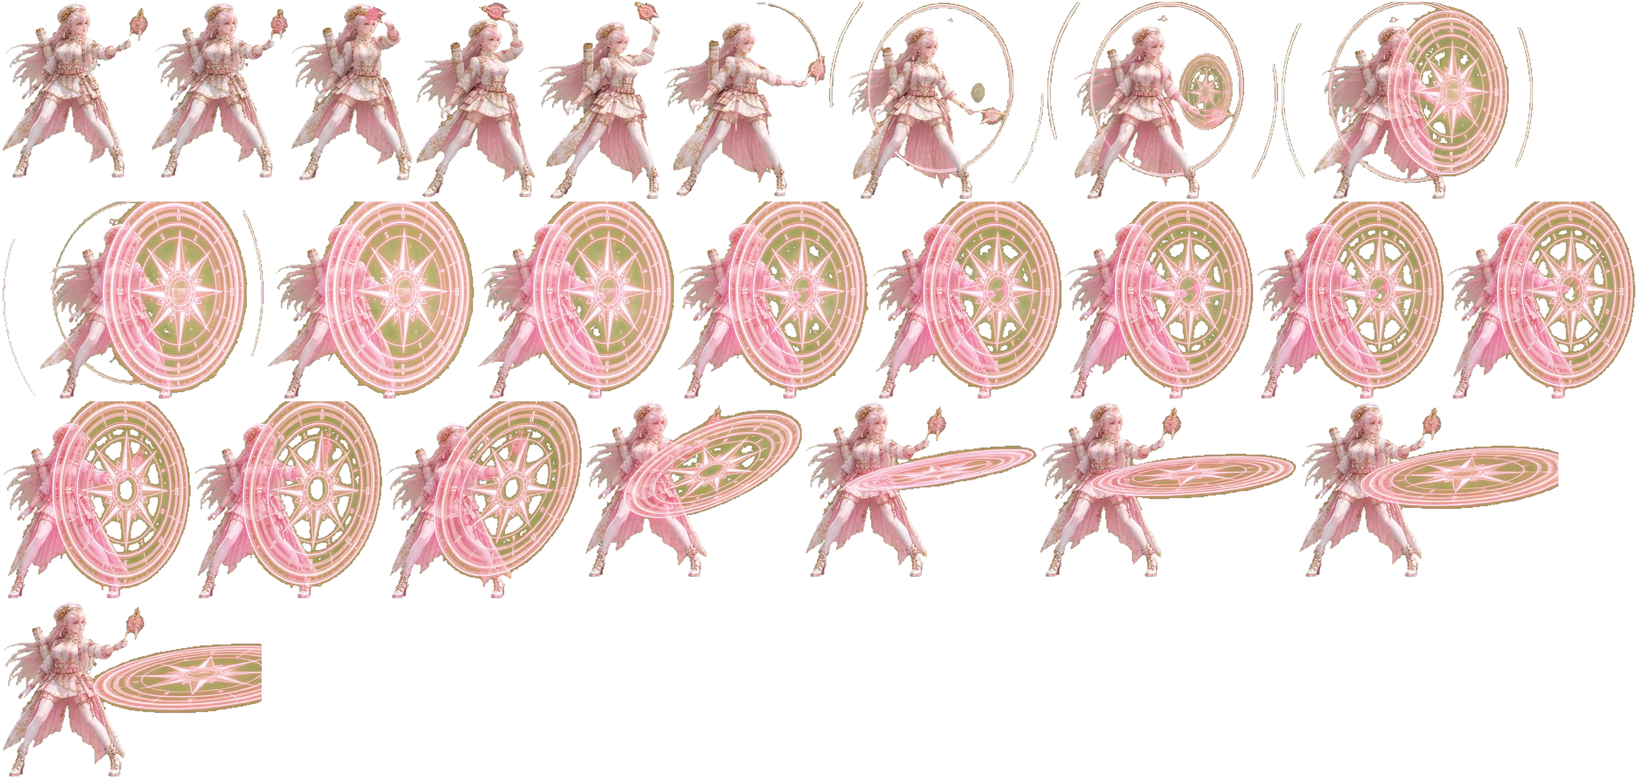
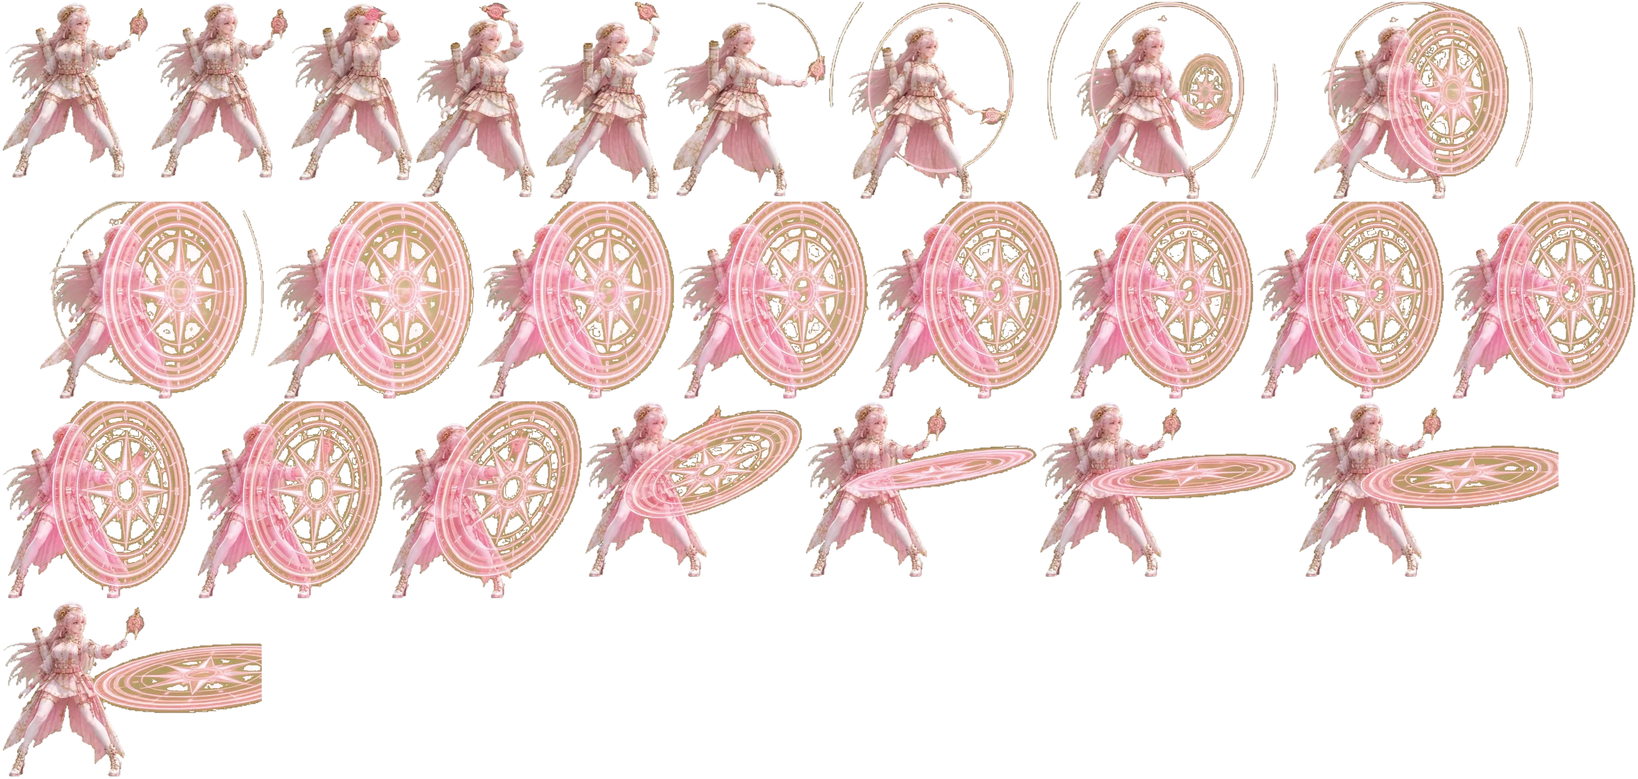
SAKURA 1.33x, cleaner ULT/breath mattes, tag leap in/out, fallen member stays down, dual HP bars
- SAKURA CHAR_SCALE 1.63 -> 1.33 (1.3x the original); hurtbox, reach and dragon paths scaled to match
- dragon breath and SAKURA ULT/disc frames: khaki/olive glow left by the green screen
  re-matted into translucent pink, detached grey islands removed
- tag: outgoing member leaps up and off-screen, incoming member leaps in from off-screen
- a KO'd member now stays lying where they fell until the round ends
- HUD: both team members' health bars shown in fixed order, active one highlighted

Claude-Session: https://claude.ai/code/session_01MJipmhPHwD7WLZ9Y2RX72y

diff --git a/game.js b/game.js
@@ -56,7 +56,7 @@ const CHARS = {
   // ARCA-07 rides the four-legged MAGITEK ARSENAL: big, heavy, long reach, magic artillery
   arca: { id: 'arca', name: 'ARCA-07', role: '魔道兵器・重砲撃', c1: '#2ee6c8', c2: '#e0405a', rgb: '46,230,200', rgb2: '235,80,100', speed: 4.3, jump: -15.5, anchor: .55, h: 625, hurtW: 156, hurtH: 550, exName: 'ルーン・ミサイル', ultName: 'アーセナル・ノヴァ' },
   // SAKURA: sky-city aircraft engineer. Draws blueprints with her compass and summons the IDEA DRAGON (AOI-style summoner)
-  sakura: { id: 'sakura', name: 'SAKURA', role: '設計図・竜召喚', c1: '#ff9ec4', c2: '#e8c25a', rgb: '255,158,200', rgb2: '232,194,90', speed: 5.0, jump: -24.5, anchor: .55, hurtW: 64, hurtH: 380, exName: 'アイディア・ドラゴン', ultName: 'ドラフト・ノヴァ' }
+  sakura: { id: 'sakura', name: 'SAKURA', role: '設計図・竜召喚', c1: '#ff9ec4', c2: '#e8c25a', rgb: '255,158,200', rgb2: '232,194,90', speed: 5.0, jump: -24.5, anchor: .55, hurtW: 52, hurtH: 310, exName: 'アイディア・ドラゴン', ultName: 'ドラフト・ノヴァ' }
 };
 const ALT = {
   suzune: { c1: '#7fd8ff', c2: '#4f7bff', rgb: '130,215,255', rgb2: '90,120,255', test: (h, s, l) => (h > 33 && h < 64 && s > .3) || ((h < 12 || h > 340) && s > .55), shift: 175 },
@@ -84,7 +84,7 @@ async function buildAssets() {
 const ANIMS = {};
 const frameCount = (id, n) => ANIMS[id] && ANIMS[id].a[n] ? ANIMS[id].a[n].length : 0;
 // visual size balance between characters (SUZUNE's source video was framed larger)
-const CHAR_SCALE = { suzune: .92, aoi: 1.07, arca: 625 / 318, sakura: 1.63 };   // AOI stands taller; SUZUNE fights from a low crouch
+const CHAR_SCALE = { suzune: .92, aoi: 1.07, arca: 625 / 318, sakura: 1.33 };   // AOI stands taller; SUZUNE fights from a low crouch
 const LOAD = { done: 0, total: 0 };
 function track(p) { LOAD.total++; return p.then(v => { LOAD.done++; const el = document.getElementById('loadPct'); if (el) el.textContent = Math.round(LOAD.done / Math.max(1, LOAD.total) * 100) + '%'; return v; }); }
 // Atlases are NOT decoded at boot any more: only the fighters in the current match are kept in memory,
@@ -166,6 +166,7 @@ function pickFrame(f) {
     case 'jump': return f.vy < -8 && f.t < 10 ? at('jump', 0) : at('jump', 1);
     case 'dash': if (f.id === 'arca') return f.dashDir === f.face ? loop('walk', 20) : at('guard', 0);
       return f.dashDir === f.face ? at('ex', 99) : at('guard', 0);
+    case 'tagin': if (f.id === 'arca') return loop('walk', 20); return f.t < f.tg.L * .45 ? at('jump', 0) : at('jump', 1);
     case 'dashin': return f.id !== 'suzune' ? loop('walk', (AN.fps.walk || 12) * 1.2) : at('ex', 99);
     case 'hit': return prog('hit', t / (t + Math.max(1, f.stun)));
     case 'air': return prog('air', t / 16);
@@ -809,9 +810,9 @@ function updateArcaMove(f, o, m, t, k, act, at, dt, first) {
   } else if (k === 'ult') updateAoiUlt(f, o, at, dt, first);   // same beam logic, fired from the ARSENAL's railgun
 }
 // SAKURA: drafting-compass strikes, a thrown blueprint disc, and the IDEA DRAGON she draws into being
-function sakuraTip(f) { return { x: f.x + f.face * 190, y: f.y - 330 }; }
+function sakuraTip(f) { return { x: f.x + f.face * 155, y: f.y - 270 }; }
 // ULT: her blueprint beam and the dragon's breath converge here, then fire as one braided beam
-function sakuraFocus(f) { return { x: f.x + f.face * 540, y: f.y - 300 }; }
+function sakuraFocus(f) { return { x: f.x + f.face * 440, y: f.y - 245 }; }
 function updateSakuraMove(f, o, m, t, k, act, at, dt, first) {
   const rgb = f.col.rgb, gold = f.col.rgb2, tip = sakuraTip(f);
   if (k === 'a') {
@@ -819,12 +820,12 @@ function updateSakuraMove(f, o, m, t, k, act, at, dt, first) {
     if (t < m.st) f.vx *= .75;
     if (first(0)) {
       f.vx = f.face * [4, 6, 9][c];
-      if (c === 1) fxArc(f.x + f.face * 130, f.y - 300, 150, -1.6, 1.1, rgb, f.face, 18, 34);
+      if (c === 1) fxArc(f.x + f.face * 106, f.y - 245, 122, -1.6, 1.1, rgb, f.face, 18, 34);
       else { fxRing(tip.x, tip.y, gold, 4, 46, 10, 4); fxCore(tip.x, tip.y, rgb, 40, 8); }
       if (c === 2) { spawnBolt(f, tip.x, tip.y, f.face * 24, 0, 5, 'bolt'); sfx.laser(); fxRing(tip.x + f.face * 30, tip.y, rgb, 6, 70, 12, 5, 2.4); }
       else sfx.swing();
     }
-    if (act) tryHit(f, o, box(f, 30, c === 1 ? 320 : 280, -400, -150), { dmg: [4, 4.5, 5][c], kb: [3, 4, 9][c], stun: [15, 16, 20][c], power: [.7, .8, 1.2][c], launch: c === 2 ? -8 : 0 });
+    if (act) tryHit(f, o, box(f, 25, c === 1 ? 260 : 230, -325, -122), { dmg: [4, 4.5, 5][c], kb: [3, 4, 9][c], stun: [15, 16, 20][c], power: [.7, .8, 1.2][c], launch: c === 2 ? -8 : 0 });
   } else if (k === 'b') {
     if (t < m.st) { f.vx *= .7; f.charge = t / m.st; if ((t | 0) % 2 === 0) fxSpark(tip.x, tip.y, gold, 2, .4); }
     if (first(0)) {   // blueprint compass-rose disc flung forward
@@ -834,7 +835,7 @@ function updateSakuraMove(f, o, m, t, k, act, at, dt, first) {
       sfx.heavySwing();
     }
   } else if (k === 'ex') {
-    if (t < m.st) { f.vx = 0; f.charge = t / m.st; if ((t | 0) % 2 === 0) fxSpark(f.x, f.y - 560, gold, 3, .5); if ((t | 0) % 6 === 0) fxRing(f.x - f.face * 60, f.y - 640, rgb, 20, 200, 16, 3, .3); }
+    if (t < m.st) { f.vx = 0; f.charge = t / m.st; if ((t | 0) % 2 === 0) fxSpark(f.x, f.y - 457, gold, 3, .5); if ((t | 0) % 6 === 0) fxRing(f.x - f.face * 49, f.y - 522, rgb, 20, 163, 16, 3, .3); }
     if (first(0)) { summonDragon(f, o, 'swoop'); f.charge = 0; }
   } else if (k === 'ult') {
     if (first(0)) summonDragon(f, o, 'ult');
@@ -847,9 +848,9 @@ const dragonScale = f => { const AN = ANIMS[f.id]; return AN ? AN.k * AN.dragonK
 function summonDragon(f, o, mode) {
   const back = -f.face;
   f.dragon = mode === 'swoop'
-    ? { mode, t: 0, face: f.face, x: f.x + back * 700, y: f.y - 700, x0: f.x + back * 700, x1: o.x + f.face * 1000, hits: 0, next: 0 }
-    : { mode, t: 0, face: f.face, x: f.x + back * 900, y: f.y - 900, hits: 0, next: 0 };
-  fxRing(f.x, f.y - 640, f.col.rgb2, 30, 320, 24, 8, .3); fxCore(f.x, f.y - 640, f.col.rgb, 200, 18); flash(.35, f.col.rgb);
+    ? { mode, t: 0, face: f.face, x: f.x + back * 700, y: f.y - 571, x0: f.x + back * 700, x1: o.x + f.face * 1000, hits: 0, next: 0 }
+    : { mode, t: 0, face: f.face, x: f.x + back * 900, y: f.y - 735, hits: 0, next: 0 };
+  fxRing(f.x, f.y - 522, f.col.rgb2, 30, 320, 24, 8, .3); fxCore(f.x, f.y - 522, f.col.rgb, 200, 18); flash(.35, f.col.rgb);
   playS('special_start', .5, 1.3); shake(6);
 }
 function updateDragon(f, o, dt) {
@@ -858,16 +859,16 @@ function updateDragon(f, o, dt) {
   if (d.mode === 'swoop') {
     const L = 46, q = Math.min(1, d.t / L);
     const px = d.x, py = d.y;
-    d.x = lerp(d.x0, d.x1, q); d.y = f.y - 700 + Math.sin(q * Math.PI) * 600;   // arc dives through the opponent and climbs away
+    d.x = lerp(d.x0, d.x1, q); d.y = f.y - 571 + Math.sin(q * Math.PI) * 490;   // arc dives through the opponent and climbs away
     if (d.t > dt) d.rot = lerp(d.rot || 0, Math.atan2(d.y - py, Math.abs(d.x - px) + .01), .35);
     if (q < .9 && d.hits < 4 && d.t >= d.next && G.phase === 'fight') {   // wide body + wing + claw hitbox
-      const hb = { x0: d.x - 340, x1: d.x + 340, y0: d.y - 300, y1: d.y + 300 };
+      const hb = { x0: d.x - 277, x1: d.x + 277, y0: d.y - 245, y1: d.y + 245 };
       if (overlap(hb, hurt(o))) { d.hits++; d.next = d.t + 7; const fin = d.hits === 4; hitTarget(f, o, { dmg: fin ? 7 : 4, kb: fin ? 14 : 4, stun: 22, power: fin ? 1.9 : 1.1, launch: fin ? -13 : 0, hy: clamp(o.y - d.y, 60, 260) }); fxArc(d.x, d.y + 40, 220, -1.8, 1.4, f.col.rgb, d.face, 18, 34); }
     }
     if ((d.t | 0) % 2 === 0) addFx({ k: 'streak', x: d.x - d.face * 160, y: d.y + rnd(-60, 60), vx: -d.face * 14, vy: 0, life: 14, t: 0, rgb: f.col.rgb, w: 4 });
     if (d.t > L + 10) f.dragon = null;
   } else if (d.mode === 'ult') {
-    const tx = f.x + f.face * 170, ty = f.y - 430;   // hovers over her outstretched arm, both facing the foe
+    const tx = f.x + f.face * 139, ty = f.y - 351;   // hovers over her outstretched arm, both facing the foe
     d.x = lerp(d.x, tx, .14); d.y = lerp(d.y, ty + Math.sin(d.t * .08) * 14, .14); d.face = f.face;
     d.rot = lerp(d.rot || 0, f.move && f.move.beam ? .32 : .12, .1);   // dips its head to breathe down onto the focus point
     const c = sakuraFocus(f); f.droneX = c.x; f.droneY = c.y;
@@ -1008,16 +1009,28 @@ function doTag(side, forced) {
   const out = G.fighters[side], inn = partnerOf(out);
   if (!inn || inn.hp <= 0) return false;
   if (!forced && (G.tagCd[side] > 0 || G.phase !== 'fight')) return false;
-  const x = clamp(out.x, 120, STAGE_W - 120), face = out.face;
-  inn.x = x - face * 60; inn.y = GROUND; inn.vy = 0; inn.face = face; inn.vx = face * 22; inn.state = 'dashin'; inn.t = 0; inn.move = null;
-  inn.inv = 45; inn.hidden = false; inn.ko = false; inn.gauge = Math.max(inn.gauge, out.gauge); out.gauge = inn.gauge; inn.wins = out.wins;
+  const x = clamp(out.x, 120, STAGE_W - 120), face = out.face, opp = G.fighters[1 - side];
+  // incoming member leaps in from off-screen behind, landing next to where the outgoing one stood
+  const half = W / 2 / (G.cam.z || 1), offX = face > 0 ? G.cam.x - half - 260 : G.cam.x + half + 260;
+  const land = forced ? clamp(out.x - face * 140, 120, STAGE_W - 120) : x;
+  inn.x = offX; inn.y = GROUND - 620; inn.vy = 0; inn.vx = 0; inn.face = Math.sign(opp.x - land) || face; inn.t = 0; inn.move = null;
+  inn.state = 'tagin'; inn.tg = { x0: offX, x1: land, y0: GROUND - 620, L: inn.id === 'arca' ? 34 : 30 };
+  inn.inv = 55; inn.hidden = false; inn.ko = false; inn.gauge = Math.max(inn.gauge, out.gauge); out.gauge = inn.gauge; inn.wins = out.wins;
   inn.ghosts = []; inn.rail = []; inn.trail = []; inn.buf = {}; inn.prev = { ...out.prev }; inn.dashCd = 0;
-  if (!forced) { out.state = 'idle'; out.move = null; out.vx = 0; }
+  G.benched = G.benched || [];
+  if (forced) {   // the fallen member stays lying where they went down
+    out.state = 'down'; out.t = 99; out.vx = 0; out.vy = 0; out.move = null; out.y = GROUND; out.dragon = null;
+    G.benched.push({ f: out, mode: 'corpse' });
+  } else {        // leaps up and back out of the screen
+    out.move = null; out.dragon = null; out.charge = 0; out.t = 0;
+    if (out.id === 'arca') { out.state = 'walk'; out.vx = -face * 26; out.vy = 0; }
+    else { out.state = 'jump'; out.vx = -face * 15; out.vy = -27; out.flip = false; out.rot = 0; }
+    G.benched.push({ f: out, mode: 'exit', t: 0 });
+    fxDust(out.x, GROUND, 10, 1.1); fxRing(out.x, out.y - 150, auraRgb(out), 20, 200, 18, 8); sfx.jump();
+  }
   G.fighters[side] = inn; G.tagCd[side] = TAG_CD;
   const rgb = auraRgb(inn);
-  fxRing(out.x, out.y - 150, auraRgb(out), 20, 200, 18, 8); fxDust(out.x, GROUND, 8, 1);
-  addFx({ k: 'pillar', x: inn.x, y: GROUND, rgb, hot: auraHot(inn), life: 26, t: 0, w: 110 });
-  fxRing(inn.x, GROUND - 4, rgb, 20, 260, 22, 9, .22); fxText(inn.x, inn.y - 380, 'CHANGE!', rgb, 34, 40);
+  fxText(land, GROUND - 420, 'CHANGE!', rgb, 34, 40);
   sfx.dash(); playS('special_start', .6, 1.2); voice(inn, 'a2', { delay: .05 }); shake(6);
   refreshTouchFor(side);
   return true;
@@ -1027,6 +1040,18 @@ function updateTeams(dt) {
   for (let side = 0; side < 2; side++) {
     if (G.tagCd[side] > 0) G.tagCd[side] -= dt;
     for (const f of G.teams[side]) if (f !== G.fighters[side] && f.hp > 0 && f.hp < 100 && G.phase === 'fight') f.hp = Math.min(100, f.hp + .012 * dt);   // resting partner recovers slowly
+  }
+  if (G.benched) {
+    for (const b of G.benched) {
+      if (b.mode !== 'exit') continue;
+      const f = b.f; b.t += dt; f.t += dt;
+      if (f.state === 'jump') f.vy += GRAV * dt;
+      f.x += f.vx * dt; f.y += f.vy * dt;
+      if (G.frame % 2 === 0) f.trail.push(1);
+      const half = W / 2 / (G.cam.z || 1);
+      if (f.y < GROUND - 1300 || f.x < G.cam.x - half - 400 || f.x > G.cam.x + half + 400 || b.t > 90) b.gone = true;
+    }
+    G.benched = G.benched.filter(b => !b.gone && G.fighters.indexOf(b.f) < 0);
   }
   const pt = G.pendingTag;
   if (pt) { pt.t += dt; const down = G.fighters[pt.side]; if (pt.t > 75 && (down.state === 'down' || pt.t > 140)) { G.pendingTag = null; doTag(pt.side, true); } }
@@ -1102,6 +1127,16 @@ function stepFighter(f, o, inp, dt) {
       else if (f.buf.u > 0 && f.id !== 'arca') { f.buf.u = 0; f.state = 'jump'; f.vy = f.ch.jump; f.vx = f.dashDir * f.ch.speed * 1.4; sfx.jump(); }
     }
     if (f.state === 'dash' && f.t >= DASH.len) { f.state = 'idle'; f.land = 6; f.vx *= .3; fxDust(f.x, f.y, 4, .7); }
+  } else if (f.state === 'tagin') {   // arcing leap in from off-screen
+    const g = f.tg, q = Math.min(1, f.t / g.L), e = 1 - Math.pow(1 - q, 2);
+    f.x = lerp(g.x0, g.x1, e); f.y = g.y0 + (GROUND - g.y0) * q * q - Math.sin(q * Math.PI) * 160; f.vx = 0; f.vy = 0;
+    if (G.frame % 2 === 0) { f.trail.push(1); f.rail.push({ x: f.x, y: f.y - 10, t: G.frame }); }
+    if (q >= 1) {
+      f.y = GROUND; f.state = 'idle'; f.land = 12; f.tg = null;
+      fxDust(f.x, f.y, 14, 1.4); fxRing(f.x, f.y - 4, auraRgb(f), 20, 260, 22, 9, .22); shake(f.id === 'arca' ? 14 : 8); sfx.land();
+      addFx({ k: 'pillar', x: f.x, y: GROUND, rgb: auraRgb(f), hot: auraHot(f), life: 26, t: 0, w: 110 });
+      if (f.id === 'arca') playS('arca_stomp', .8, 1);
+    }
   } else if (f.state === 'dashin') {
     f.vx *= Math.pow(.93, dt); if (G.frame % 2 === 0) { f.trail.push(1); f.rail.push({ x: f.x - f.face * 20, y: f.y - 10, t: G.frame }); }
     if (Math.abs(f.vx) < 2.5) { f.state = 'idle'; f.land = 10; fxDust(f.x, f.y, 10, 1.1); fxRing(f.x, f.y - 4, f.col.rgb, 10, 180, 20, 6, .25); }
@@ -1139,7 +1174,7 @@ function stepFighter(f, o, inp, dt) {
   }
 
   // physics
-  if (!(f.state === 'atk' && f.move && f.move.key === 'ult' && f.id === 'suzune' && f.move && f.t - f.move.st >= 16 && f.t - f.move.st < 56)) {
+  if (f.state !== 'tagin' && !(f.state === 'atk' && f.move && f.move.key === 'ult' && f.id === 'suzune' && f.move && f.t - f.move.st >= 16 && f.t - f.move.st < 56)) {
     const heavyAir = f.state === 'atk' && f.move && f.move.key === 'ex' && f.id === 'suzune';
     if (!onGround(f) || f.vy < 0) { f.vy += (heavyAir ? .3 : GRAV) * dt; }
     f.x += f.vx * dt; f.y += f.vy * dt;
@@ -1154,8 +1189,8 @@ function stepFighter(f, o, inp, dt) {
     }
   }
   const sep = W / G.cam.z - 150;
-  f.x = clamp(f.x, 70, STAGE_W - 70);
-  if (Math.abs(f.x - o.x) > sep && !f.hidden && !o.hidden && f.state !== 'dashin' && o.state !== 'dashin' && f.state !== 'dash') f.x = o.x + Math.sign(f.x - o.x) * sep;
+  if (f.state !== 'tagin') f.x = clamp(f.x, 70, STAGE_W - 70);
+  if (Math.abs(f.x - o.x) > sep && !f.hidden && !o.hidden && f.state !== 'dashin' && o.state !== 'dashin' && f.state !== 'tagin' && o.state !== 'tagin' && f.state !== 'dash') f.x = o.x + Math.sign(f.x - o.x) * sep;
   if (f.trail.length) { f.trail.length = 0; f.ghosts = f.ghosts || []; { const pf = pickFrame(f); f.ghosts.push({ x: f.x, y: f.y, face: f.face, rot: f.rot, sx: f.sx, sy: f.sy, top: f.top, bot: f.bot, t: 0, fr: pf && pf.fr }); } }
   if (f.ghosts) { for (const g of f.ghosts) g.t += dt; f.ghosts = f.ghosts.filter(g => g.t < 16); }
   f.rail = f.rail.filter(r => G.frame - r.t < 40);
@@ -1165,7 +1200,7 @@ function stepFighter(f, o, inp, dt) {
   }
   if (f.id === 'sakura') {
     f.droneA += .05 * dt;
-    if (f.state === 'win' && !f.dragon && ANIMS.sakura) f.dragon = { mode: 'win', t: 0, face: f.face, x: f.x - f.face * 900, y: f.y - 700, hits: 0, next: 0 };
+    if (f.state === 'win' && !f.dragon && ANIMS.sakura) f.dragon = { mode: 'win', t: 0, face: f.face, x: f.x - f.face * 900, y: f.y - 571, hits: 0, next: 0 };
     if (!f.dragon) { f.droneX = sakuraTip(f).x; f.droneY = sakuraTip(f).y; }
     updateDragon(f, G.fighters[1 - f.side], dt);
   }
@@ -1193,6 +1228,7 @@ function poseOf(f) {
     case 'walk': { const c = Math.sin(G.frame * .32); P.sy = 1 + Math.abs(c) * .035; P.top = 12; P.bot = c * 16; P.wave = 9; P.rot = .03; break; }
     case 'guard': P.top = -18; P.bot = 4; P.sx = .95; P.sy = .96; P.wave = 3; break;
     case 'jump': if (f.vy < -4) { P.sy = 1.08; P.sx = .93; P.bot = -24; P.top = 6; } else { P.sy = .98; P.bot = 14; P.top = -6; } P.wave = 14; break;
+    case 'tagin': P.sy = 1.05; P.sx = .95; P.bot = -18; P.wave = 14; break;
     case 'dashin': P.top = 40; P.sx = 1.18; P.sy = .9; P.wave = 16; P.rot = .08; break;
     case 'dash': if (f.dashDir === f.face) { P.top = 44; P.sx = 1.2; P.sy = .9; P.rot = .1; } else { P.top = -24; P.sx = .94; P.rot = -.06; } P.wave = 16; break;
     case 'hit': P.top = -30; P.bot = 6; P.sx = .95; P.rot = -.1; P.ox = Math.sin(f.t * 2.2) * 4; P.wave = 12; break;
@@ -1319,7 +1355,7 @@ async function startMatch() {
   G.scene = 'game'; showScreen(null); setTouch(true); bgmTrack('battle', .5);
 }
 function startRound() {
-  makeTeams(); G.tagCd = [0, 0]; G.pendingTag = null;
+  makeTeams(); G.tagCd = [0, 0]; G.pendingTag = null; G.benched = [];
   G.resultShown = false; G.victory = null; G.fx = []; G.proj = []; G.timer = 99; G.timerF = 0; G.phase = 'intro'; G.phaseT = 0; G.cutin = null; G.rwCut = null; G.freeze = 0; G.tintA = 0; G.slow = 1;
   G.cam.x = STAGE_W / 2;
   for (const f of G.fighters) {
@@ -1803,35 +1839,40 @@ function drawBanner() {
   ctx.fillStyle = g; ctx.fillText(b.txt, 0, 0); ctx.restore();
 }
 function drawHUD2() {
-  const [a, b] = G.fighters, barW = 470, barH = 22, top = 34;
-  const bar = (f, dir) => {
-    f.dispHp = f.dispHp > f.hp ? Math.max(f.hp, f.dispHp - .35) : f.hp;
-    const x0 = dir < 0 ? W / 2 - 66 - barW : W / 2 + 66;
-    ctx.save(); ctx.translate(0, top);
-    ctx.fillStyle = 'rgba(10,6,20,.75)'; ctx.fillRect(x0, 0, barW, barH);
-    const wd = barW * f.dispHp / 100, wh = barW * f.hp / 100;
-    ctx.fillStyle = '#ff4a5e'; ctx.fillRect(dir < 0 ? x0 + barW - wd : x0, 0, wd, barH);
-    const g = ctx.createLinearGradient(0, 0, 0, barH); g.addColorStop(0, '#fff'); g.addColorStop(.35, f.col.c1); g.addColorStop(1, f.col.c2);
-    ctx.fillStyle = g; ctx.fillRect(dir < 0 ? x0 + barW - wh : x0, 0, wh, barH);
-    if (f.hp < 30) { ctx.fillStyle = `rgba(255,255,255,${.25 + .25 * Math.sin(G.frame * .3)})`; ctx.fillRect(dir < 0 ? x0 + barW - wh : x0, 0, wh, barH); }
-    ctx.strokeStyle = 'rgba(255,255,255,.85)'; ctx.lineWidth = 2; ctx.strokeRect(x0, 0, barW, barH);
-    ctx.font = `700 24px 'Chakra Petch', sans-serif`; ctx.fillStyle = '#fff'; ctx.textAlign = dir < 0 ? 'left' : 'right';
-    const nx = dir < 0 ? x0 : x0 + barW; ctx.fillText(f.ch.name, nx, barH + 28);
-    const lab = G.mode === 'pvp' ? (f.side ? '2P' : '1P') : G.mode === 'watch' ? 'CPU' : (f.side ? 'CPU' : 'YOU');
-    const nw = ctx.measureText(f.ch.name).width;
-    ctx.font = `600 15px 'Chakra Petch', sans-serif`; ctx.fillStyle = f.col.c1; ctx.fillText(lab, dir < 0 ? nx + nw + 12 : nx - nw - 12, barH + 27);
-    for (let i = 0; i < 2; i++) { const px = dir < 0 ? x0 + barW - 12 - i * 24 : x0 + 12 + i * 24; ctx.fillStyle = i < f.wins ? f.col.c1 : 'rgba(255,255,255,.2)'; ctx.beginPath(); ctx.arc(px, barH + 20, 7, 0, TAU); ctx.fill(); }
-    const pt = partnerOf(f);
-    if (pt) {   // partner: mini health bar + tag readiness
-      const mw = 150, mx = dir < 0 ? x0 + barW - mw : x0, my = -16, ready = !(G.tagCd[f.side] > 0) && pt.hp > 0;
-      ctx.fillStyle = 'rgba(10,6,20,.75)'; ctx.fillRect(mx, my, mw, 8);
-      ctx.fillStyle = pt.hp > 0 ? pt.col.c1 : '#555'; const pw2 = mw * Math.max(0, pt.hp) / 100; ctx.fillRect(dir < 0 ? mx + mw - pw2 : mx, my, pw2, 8);
-      ctx.strokeStyle = 'rgba(255,255,255,.6)'; ctx.lineWidth = 1; ctx.strokeRect(mx, my, mw, 8);
-      ctx.font = `700 13px 'Chakra Petch', sans-serif`; ctx.textAlign = dir < 0 ? 'right' : 'left';
-      ctx.fillStyle = pt.hp > 0 ? '#fff' : '#888';
-      ctx.fillText(pt.hp > 0 ? `${pt.ch.name}${ready ? '  ⇄ READY' : ''}` : `${pt.ch.name}  K.O.`, dir < 0 ? mx - 8 : mx + mw + 8, my + 8);
+  const [a, b] = G.fighters, barW = 470, top = 34;
+  // each team shows BOTH members' health in fixed order; the one on the field is highlighted
+  const memberBar = (m, f, dir, y, h) => {
+    const active = m === f, x0 = dir < 0 ? W / 2 - 66 - barW : W / 2 + 66;
+    m.dispHp = m.dispHp > m.hp ? Math.max(m.hp, m.dispHp - .35) : m.hp;
+    const ko = m.hp <= 0, wd = barW * Math.max(0, m.dispHp) / 100, wh = barW * Math.max(0, m.hp) / 100;
+    ctx.globalAlpha = active ? 1 : .82;
+    ctx.fillStyle = 'rgba(10,6,20,.78)'; ctx.fillRect(x0, y, barW, h);
+    if (!ko) {
+      ctx.fillStyle = '#ff4a5e'; ctx.fillRect(dir < 0 ? x0 + barW - wd : x0, y, wd, h);
+      const g = ctx.createLinearGradient(0, y, 0, y + h); g.addColorStop(0, '#fff'); g.addColorStop(.35, m.col.c1); g.addColorStop(1, m.col.c2);
+      ctx.fillStyle = g; ctx.fillRect(dir < 0 ? x0 + barW - wh : x0, y, wh, h);
+      if (active && m.hp < 30) { ctx.fillStyle = `rgba(255,255,255,${.25 + .25 * Math.sin(G.frame * .3)})`; ctx.fillRect(dir < 0 ? x0 + barW - wh : x0, y, wh, h); }
     }
-    ctx.restore();
+    ctx.strokeStyle = active ? '#fff' : 'rgba(255,255,255,.45)'; ctx.lineWidth = active ? 2.5 : 1.5; ctx.strokeRect(x0, y, barW, h);
+    // name tag inside the bar, at the outer end
+    ctx.font = `700 ${active ? 14 : 13}px 'Chakra Petch', sans-serif`; ctx.textBaseline = 'middle'; ctx.textAlign = dir < 0 ? 'left' : 'right';
+    const tx = dir < 0 ? x0 + 8 : x0 + barW - 8, ty = y + h / 2 + 1;
+    const ready = !active && !ko && !(G.tagCd[f.side] > 0);
+    const label = (active ? '▶ ' : '') + m.ch.name + (ko ? '  K.O.' : ready ? '  ⇄' : '') + `  ${Math.max(0, Math.ceil(m.hp))}`;
+    ctx.lineWidth = 3; ctx.strokeStyle = 'rgba(10,6,20,.85)'; ctx.strokeText(label, tx, ty);
+    ctx.fillStyle = ko ? '#aaa' : '#fff'; ctx.fillText(label, tx, ty);
+    ctx.textBaseline = 'alphabetic'; ctx.globalAlpha = 1;
+  };
+  const bar = (f, dir) => {
+    const x0 = dir < 0 ? W / 2 - 66 - barW : W / 2 + 66, team = (G.teams && G.teams[f.side]) || [f];
+    team.forEach((m, i) => memberBar(m, f, dir, top - 22 + i * 26, 22));
+    const by = top + 30;
+    ctx.font = `700 22px 'Chakra Petch', sans-serif`; ctx.fillStyle = '#fff'; ctx.textAlign = dir < 0 ? 'left' : 'right';
+    const lab = G.mode === 'pvp' ? (f.side ? '2P' : '1P') : G.mode === 'watch' ? 'CPU' : (f.side ? 'CPU' : 'YOU');
+    const nx = dir < 0 ? x0 : x0 + barW; ctx.fillText(f.ch.name, nx, by + 24);
+    const nw = ctx.measureText(f.ch.name).width;
+    ctx.font = `600 15px 'Chakra Petch', sans-serif`; ctx.fillStyle = f.col.c1; ctx.fillText(lab, dir < 0 ? nx + nw + 12 : nx - nw - 12, by + 23);
+    for (let i = 0; i < 2; i++) { const px = dir < 0 ? x0 + barW - 12 - i * 24 : x0 + 12 + i * 24; ctx.fillStyle = i < f.wins ? f.col.c1 : 'rgba(255,255,255,.2)'; ctx.beginPath(); ctx.arc(px, by + 16, 7, 0, TAU); ctx.fill(); }
     // gauge
     const gw = 290, gy = 34 + 70, gx0 = dir < 0 ? W / 2 - 66 - barW : W / 2 + 66 + barW - gw, full = f.gauge >= 100, gv = gw * f.gauge / 100;
     ctx.fillStyle = 'rgba(10,6,20,.7)'; ctx.fillRect(gx0, gy, gw, 12);
@@ -1861,12 +1902,14 @@ function render() {
   ctx.save(); worldTransform();
   drawFloor();
   ctx.save(); ctx.beginPath(); ctx.rect(-5000, GROUND, 10000 + STAGE_W, 2000); ctx.clip();
+  for (const b of G.benched || []) drawFighter(b.f, true);
   for (const f of G.fighters) drawFighter(f, true);
   ctx.restore();
   drawCometFx();
   ctx.globalCompositeOperation = 'lighter'; for (const f of G.fighters) drawRail(f); ctx.globalCompositeOperation = 'source-over';
   const order = [...G.fighters].sort((p, q) => (p.state === 'atk') - (q.state === 'atk'));
   for (const f of G.fighters) drawDragon(f, false);
+  for (const b of G.benched || []) drawFighter(b.f, false);
   for (const f of order) drawFighter(f, false);
   for (const f of G.fighters) { drawDrone(f); drawDragon(f, true); }
   drawFx('norm');
@@ -1935,14 +1978,14 @@ function simStep(dt) {
 function updateCamera() {
   const c = G.cam, [a, b] = G.fighters;
   if (a && b) {
-    const vis = [a, b].filter(f => !f.hidden);
-    let mid = vis.length ? vis.reduce((s, f) => s + f.x, 0) / vis.length : c.x;
+    const vis = [a, b].filter(f => !f.hidden); const cx = f => f.state === 'tagin' && f.tg ? f.tg.x1 : f.x;
+    let mid = vis.length ? vis.reduce((s, f) => s + cx(f), 0) / vis.length : c.x;
     const wf = vis.find(f => f.state === 'win'); if (wf) mid = wf.x;
     const d = vis.length === 2 ? Math.abs(a.x - b.x) : 300;
     c.z = 1;
     const half = W / 2 / c.z;
     c.x = lerp(c.x, clamp(mid, half, STAGE_W - half), .12);
-    const hi = Math.max(...vis.map(f => GROUND - f.y), 0); c.y = lerp(c.y || 0, Math.max(0, hi - 140) * .7, .14);   // tilt up for big jumps
+    const hi = Math.max(...vis.map(f => f.state === 'tagin' ? 0 : GROUND - f.y), 0); c.y = lerp(c.y || 0, Math.max(0, hi - 140) * .7, .14);   // tilt up for big jumps
   }
   c.shake *= .86; if (c.shake < .3) c.shake = 0;
   c.kick *= .8;

diff --git a/index.html b/index.html
@@ -397,6 +397,6 @@ body.portrait:not(.rotate-dismissed) #rotate{display:flex}
 <div id="loading">読み込み中… <span id="loadPct">0%</span></div>
 
 <script>window.ASSETS={"su": "assets/suzune.webp", "ao": "assets/aoi.webp", "drone": "assets/drone.webp", "suci": "assets/suzune_cutin.webp", "aoci": "assets/aoi_cutin.webp", "ar": "assets/arca.webp", "arci": "assets/arca_cutin.webp", "arp": "assets/arca_pilot.webp", "arcard": "assets/arca_card.webp", "tsu": "assets/title_suzune.webp", "tao": "assets/title_aoi.webp", "tar": "assets/title_arca.webp", "tsa": "assets/title_sakura.webp", "sa": "assets/sakura.webp", "saci": "assets/sakura_cutin.webp", "sacard": "assets/sakura_card.webp"};</script>
-<script src="game.js?v=20261002e"></script>
+<script src="game.js?v=20261002f"></script>
 </body>
 </html>
